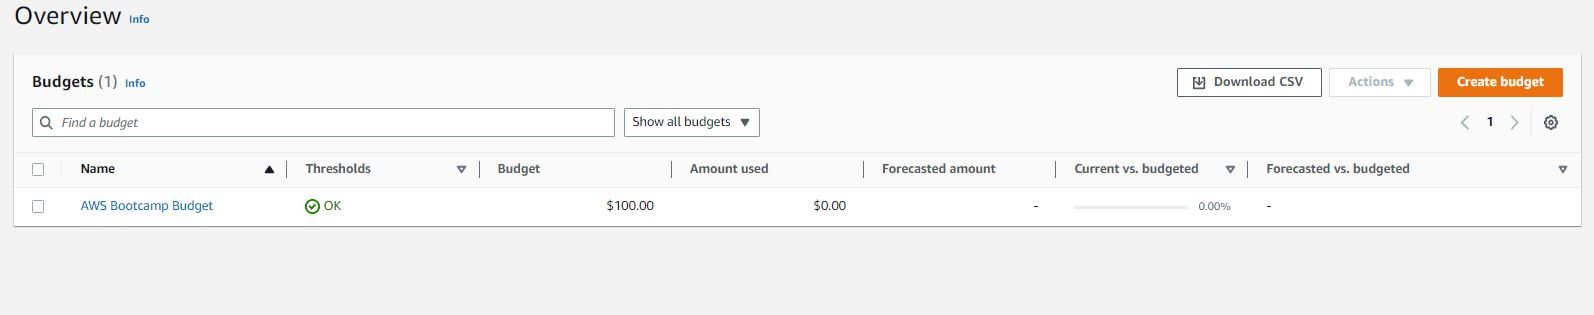
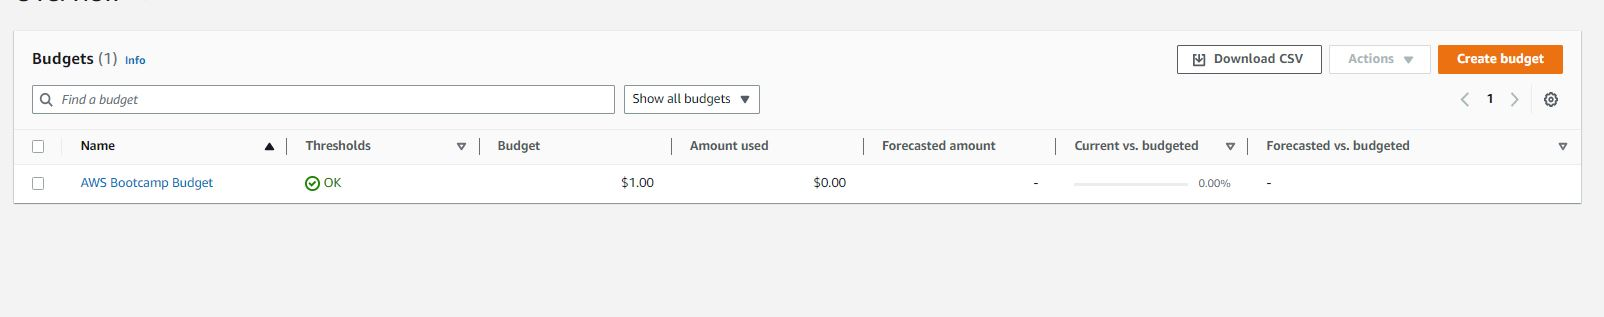
update

diff --git a/journal/week0.md b/journal/week0.md
@@ -3,7 +3,7 @@
 ## AWS CLI
 
 ### Setting up AWS CLI
-- Installed AWS CLI on Gitpod following the [AWS CLI Install Instructions] (https://docs.aws.amazon.com/cli/latest/userguide/getting-started-install.html)
+- Installed AWS CLI on Gitpod following the [AWS CLI Install Instructions](https://docs.aws.amazon.com/cli/latest/userguide/getting-started-install.html)
 - Updated my .gitpod.yml to include the below:
 
 ```sh
@@ -34,4 +34,42 @@ The steps below were used to accomplish this task
 
 ![User Graphic](_docs/week0/Users.JPG)
 
-![Cruddur Graphic](_docs/assets/cruddur-banner.jpg)
+
+### Set the Environment Vars
+
+The commands below were used to set the credentials via the bash terminal
+
+```sh
+tasks:
+gp env AWS_ACCESS_KEY_ID=""
+gp env AWS_SECRET_ACCESS_KEY=""
+gp env AWS_DEFAULT_REGION=us-east-1
+```
+
+### Verification checks on AWS CLI & AWS User
+
+```sh
+aws sts get-caller-identity
+```
+
+![User Graphic](_docs/week0/STS.JPG)
+
+## Created AWS Budgets
+
+## Created a Zero Sped Budget
+
+This was done using the AWS Documentation [aws budgets create-budget](https://docs.aws.amazon.com/cli/latest/reference/budgets/create-budget.html)
+
+- Provided my AWS Account ID
+- Updated the json files
+
+Ran the Command below
+
+```sh
+aws budgets create-budget \
+    --account-id AccountID \
+    --budget file://aws/json/budget.json \
+    --notifications-with-subscribers file://aws/json/budget-notifications-with-subscribers.json
+```
+
+![User Graphic](_docs/week0/Budget.JPG)
